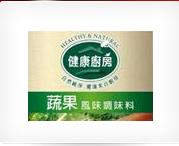
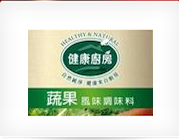
adjust picture size

diff --git a/js/controller.js b/js/controller.js
@@ -9,7 +9,9 @@ mainApp.controller('mainCtrl', function($scope) {
     {name: '牛奶'}, 
     {name: '醬油'}, 
     {name: '調味料'}, 
-    {name: '水'}
+    {name: '水'},
+    {name: '統一'},
+    {name: '味全'}
   ];
   $scope.setQuery = function(q){
     if(q==='全部') {
@@ -115,8 +117,8 @@ mainApp.controller('mainCtrl', function($scope) {
 
   ];
   $scope.speed = 'nga-default';
-  $scope.stagger = 'nga-stagger';
-  $scope.classes = 'nga-squash-left';
+  $scope.stagger = 'nga-none';
+  $scope.classes = 'nga-fade';
 });
 
 // {name: '', pict: '', brand: '', type: '', tag: ''},

diff --git a/index.html b/index.html
@@ -12,6 +12,7 @@
 </head>
 
 <body ng-controller="mainCtrl">
+  協作：Eden, Kate, Kylie </br>
   過濾：<input type="text" ng-model="query" value="" placeholder="關鍵字：果汁、牛奶..."><br/>
   快速過濾：<button class="filter" ng-repeat="f in filterBtns" ng-click="setQuery(f.name)">{{f.name}}</button>
   <div id="container">

diff --git a/README.md b/README.md
@@ -1,6 +1,8 @@
 整個台灣都是你的化工廠
 ====================
 
+協作者：Eden, Kate, Kylie
+
 每次看到大家說台灣人很健忘，我都有點不服氣，但也無法否認。但現在的台灣人要記得事情真的太多了一點，我不想健忘，但我記性很差，作為一名工程師，應該要用電腦幫我們記。  
   
 我們可不可以把這些化學工廠用網頁的形式列出來，讓大家查詢？做成 RWD 或是 app，讓大家在外面購物的時候，可以用手機快速地查到哪些是化學工廠出品。  
